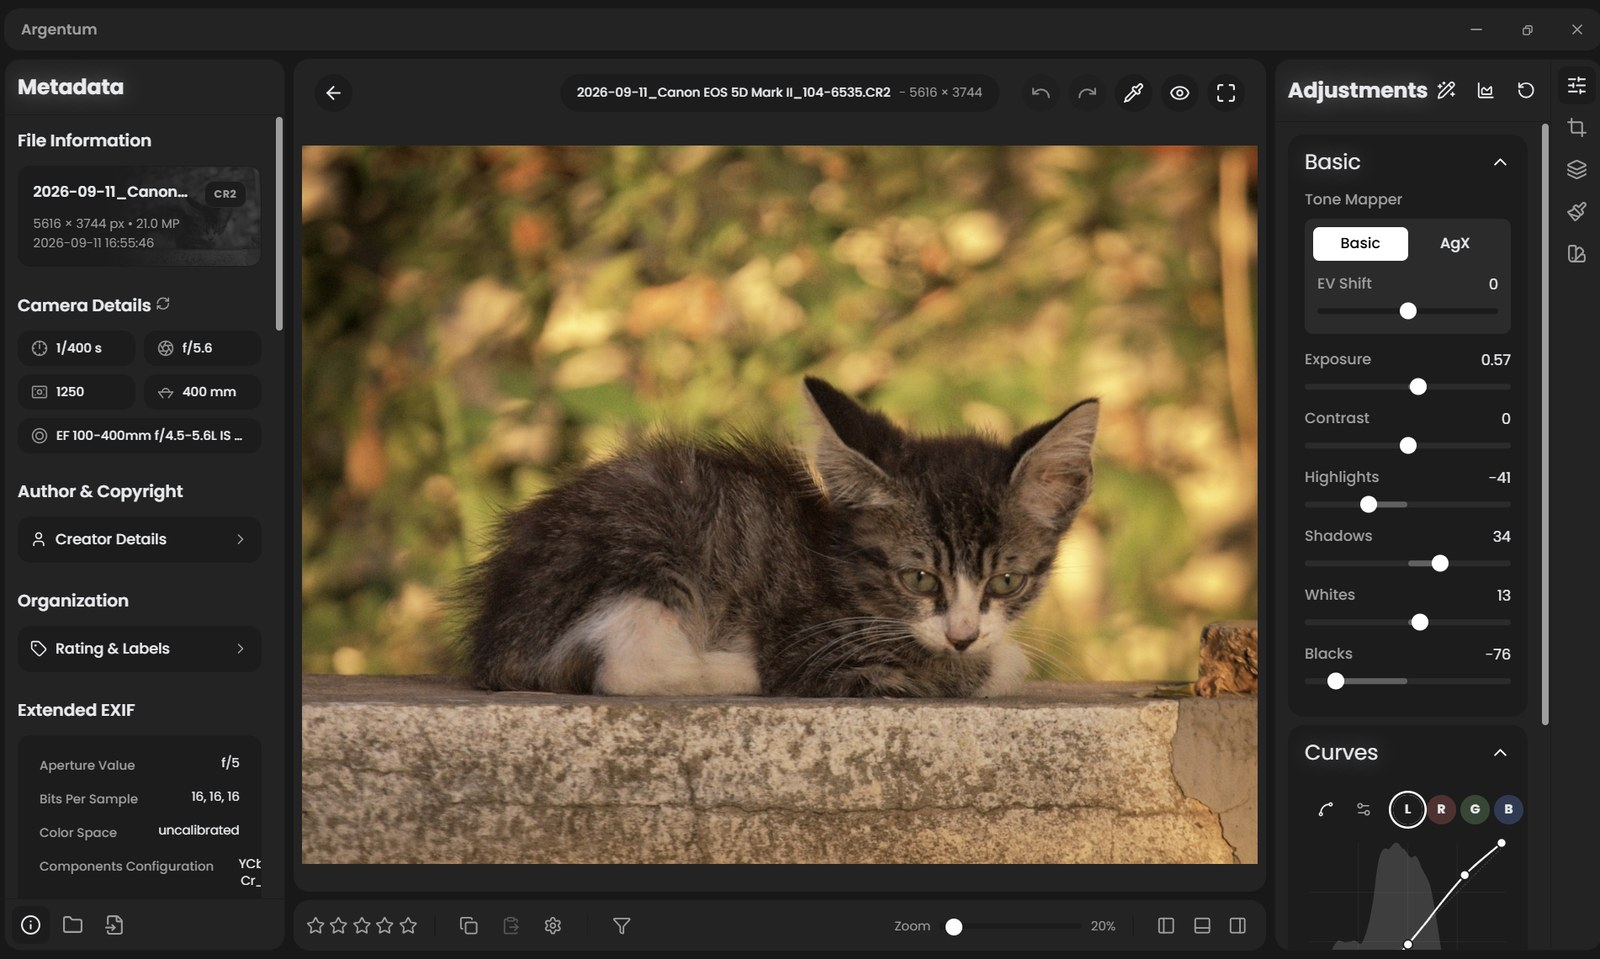
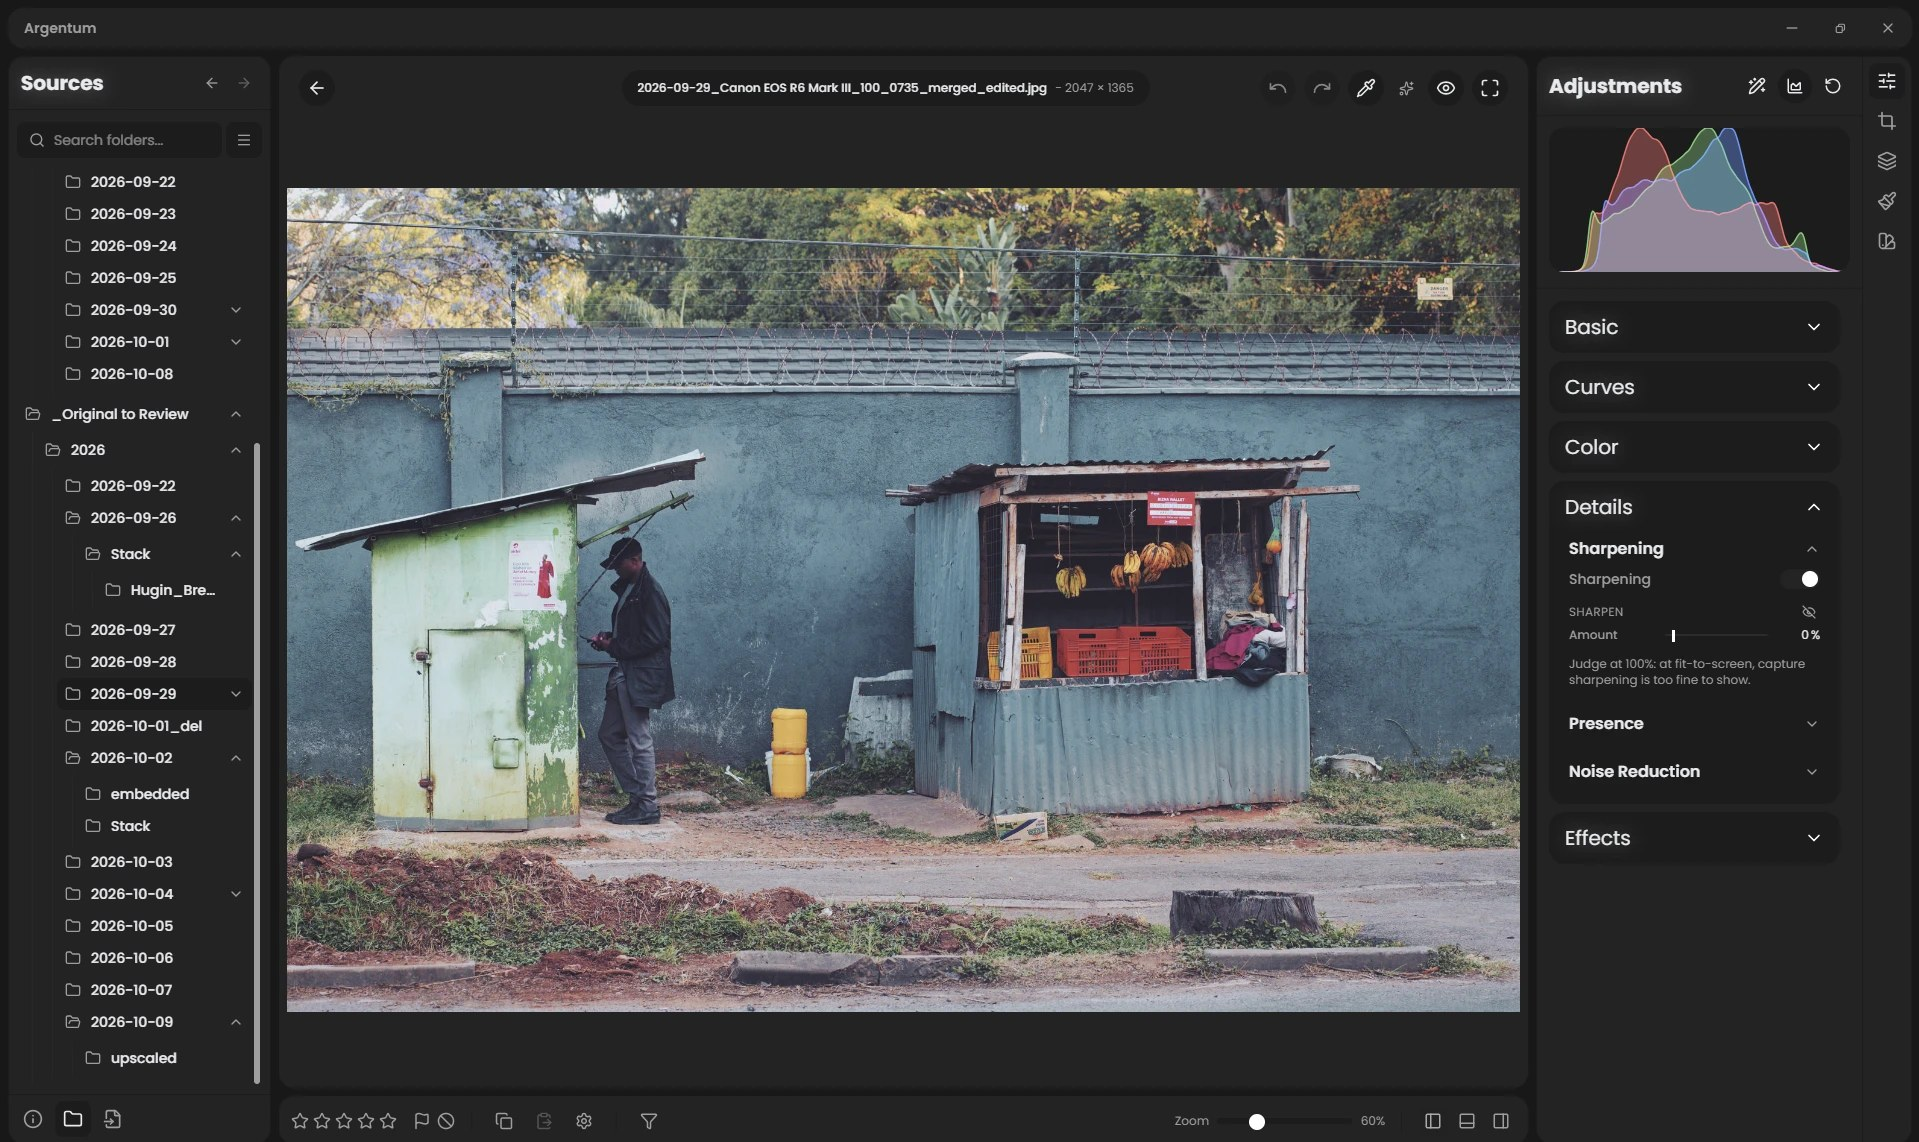
docs: a new README screenshot
The Canon CR2 cat makes way for a street scene from an EOS R6 Mark III,
with the new Details > Sharpening panel open.

diff --git a/README.md b/README.md
@@ -13,7 +13,7 @@ Everything Argentum adds lives in its own files, so RapidRAW's updates keep
 merging cleanly. That constraint is enforced by a script, not by good intentions
 — see [docs/ARCHITECTURE.md](docs/ARCHITECTURE.md).
 
-![Argentum editing a Canon CR2 file](docs/screenshot.jpg)
+![Argentum editing a photo from a Canon EOS R6 Mark III](docs/screenshot.jpg)
 
 > **Early preview.** Argentum is developed and used on Windows, and runs on
 > macOS (Apple Silicon); Linux is not yet proven. Editing is non-destructive —
